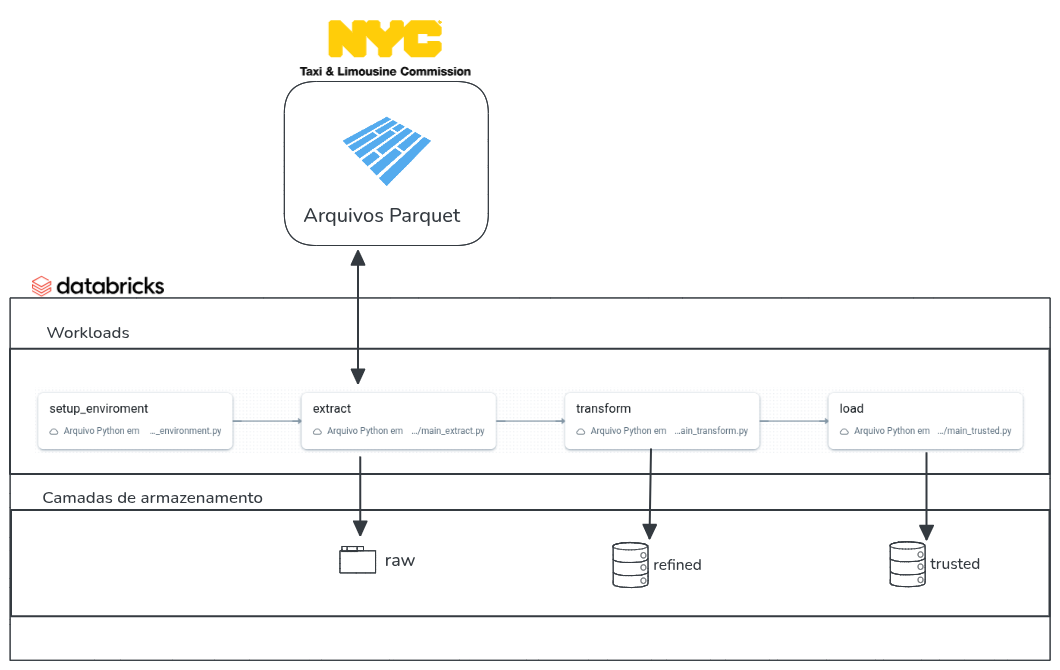
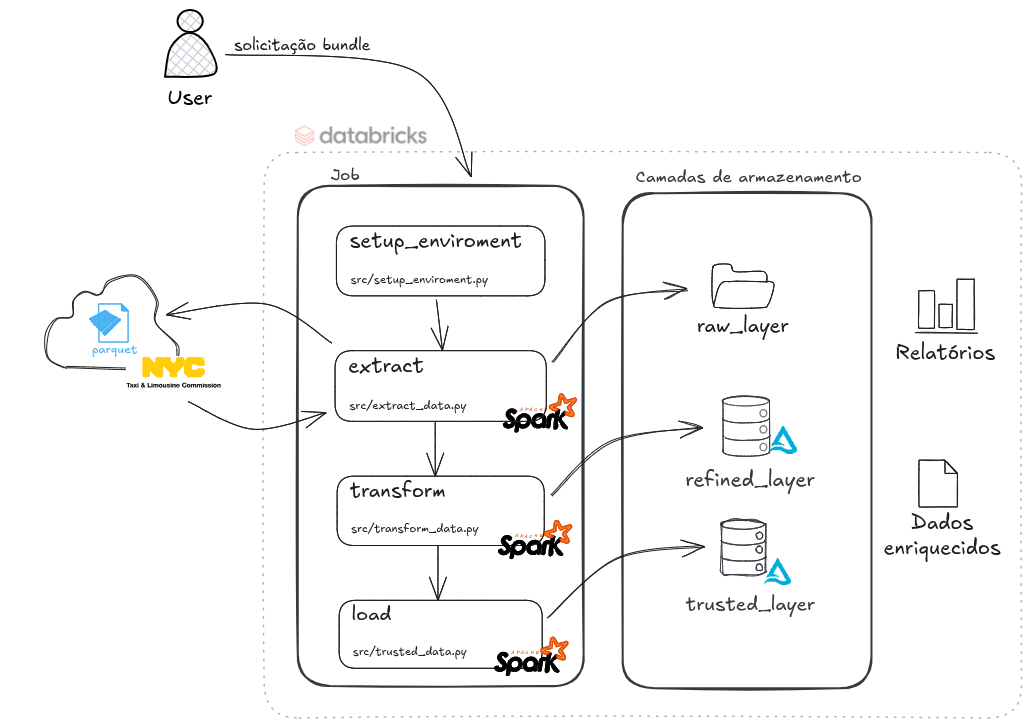
chore: ajuste final do readme

diff --git a/README.md b/README.md
@@ -1,10 +1,13 @@
 # Case Ifood - NYC Taxis
 
-Este projeto tem como finalidade, aplicar um pipeline estruturado sobre integração de dados, permitindo que posso ser realizado análise sobre estes dados.
+Este repositório tem como objetivo apresentar uma solução de engenharia de dados desenvolvida para tratar e analisar dados públicos de corridas de táxis da cidade de Nova York.
+A arquitetura do pipeline segue uma abordagem em camadas — Raw, Refined e Trusted — que organiza a evolução dos dados desde sua ingestão bruta até a geração de informações analíticas e de valor.
+
+O projeto foi construído utilizando Databricks e Delta Lake, garantindo escalabilidade, desempenho e rastreabilidade em todas as etapas do processamento.
 
 ## Arquitetura e Estrutura do Código
 
-Este projeto segue a seguinte arquitetura desenhada:
+Este projeto segue a seguinte arquitetura:
 
 ![Arquitetura Principal](./docs/arquitetura_principal.png)
 
@@ -12,19 +15,19 @@ Na sequência vamos inciar uma explicação detalhada sobre cada processo e sua 
 
 ### Detalhamento da Arquitetura:
 
-![Arquitetura Principal](./docs/arquitetura_principal_passo-a-passo.png)
+![Arquitetura Principal](./docs/arquitetura_principal_numeracao.png)
 
-**1 -** Cria os diretórios das camadas (raw, trusted, curated) no sistema de arquivos do Data Lake e os bancos de dados (schemas) no metastore do Spark/Databricks.
+**1 -** Cria os diretórios das camadas (raw, refined, trusted) no sistema de arquivos do Data Lake e os bancos de dados (schemas) no metastore do Spark/Databricks.
 
 **2, 3 e 4 -** Faz o download dos dados da camada RAW em formato Parquet, diretamente da fonte pública do NYC Taxi & Limousine Commission, com base no tipo e no período fornecidos. Faz o download e grava os dados Parquet por tipo e mês e escreve os dados baixados no caminho bruto do Data Lake.
 
-**5 -** Transforma os dados da camada RAW e grava em formato Delta na camada Trusted, com limpeza, cast e enriquecimento dos dados.
+**5 -** Transforma os dados da camada RAW e grava em formato Delta na camada Refined, com limpeza, cast e enriquecimento dos dados.
 
 **6 -** Aplica transformação e filtragem, persiste a tabela em Delta e orquestra todo o fluxo.
 
-**7 -** Gera os indicadores da camada Curated, como média de valor por mês e média de passageiros por hora, com escrita em Delta.
+**7 -** Gera os indicadores da camada Trusted, como média de valor por mês e média de passageiros por hora, com escrita em Delta.
 
-### Detalhamento da Estrutura de Pastas
+### Estrutura de Pastas
 ```
 case_ifood_nyctaxis/
 ├─ .databricks/                   # Pasta utilizada pela Databricks(bundles)
@@ -55,34 +58,112 @@ case_ifood_nyctaxis/
 
 Este projeto se utiliza do Databricks Bundles, que é descrito pela própria databricks, como uma ferramenta para facilitar a adoção das práticas recomendadas de software engenharia, incluindo controle de origem, revisão de código, testes e integração e entrega contínuas (CI/CD), para projetos de dados.
 
-### Configuração da Ferramenta para criação do pipeline
-Antes de executar o projeto temos algumas premissa a seguir. Algumas delas partem da própria Databricks para que o fluxo do bundles. São elas: 
+## Configuração da Ferramenta para criação do pipeline
+Antes de executar o projeto temos alguns pré-requisitos a seguir. Algumas delas partem da própria Databricks para que o fluxo do bundles. São elas: 
 - Criar uma conta no [Databricks Free Edition](https://www.databricks.com/learn/free-edition)
 - Instalar algum gerenciador de pacote python, o indicado é o [uv](https://docs.astral.sh/uv/getting-started/installation/)
 - Instalar o CLI da Databricks, que pode ser seguido pela Documentação: [Databricks CLI](https://docs.databricks.com/dev-tools/cli/databricks-cli.html)
 
 Tendo a conta criada e as ferramentas instaladas vamos seguir com o processo de incialização do projeto.
 
-### Inicialização do projeto
-Para iniciarmos o projeto vamos 
-2. Authenticate to your Databricks workspace, if you have not done so already:
-    ```
-    $ databricks configure
-    ```
+## Inicialização do projeto
+Para iniciarmos o projeto vamos seguir os seguintes passos:
 
-3. To deploy a development copy of this project, type:
-    ```
-    $ databricks bundle deploy --target dev
-    ```
-    (Note that "dev" is the default target, so the `--target` parameter
-    is optional here.)
+### 1. Clone do repositório:
+   ```
+   $ git clone https://github.com/matheus-conrado/case_ifood_nyctaxis.git
+   ```
 
-    This deploys everything that's defined for this project.
-    For example, the default template would deploy a job called
-    `[dev yourname] case_ifood_nyctaxis_job` to your workspace.
-    You can find that job by opening your workpace and clicking on **Workflows**.
+### 2. Alterar o arquivo databricks para o email cadastrado:
+Necessario alterar o arquivo localizado na raiz ```databricks.yml``` adicionando o email que utilizou no cadastro para o parametro ```user_name```:
+```databricks.yml
+    permissions:
+      - user_name: {seu_email}
+        level: CAN_MANAGE
+```
+### 3. Coletar as credenciais no portal da Databricks:
+No console da Databricks (área já logada), vamos coletar um token para utlização na ferramenta que irá realizar o processo de deploy do nosso job. Seguindo os seguintes passos:
+   1. No canto superior direito, clique no seu avatar (ícone do usuário).
+   2. Selecione "Settings" (ou "Configurações").
+   3. Vá até a aba de Usuário a esquerda selecione "Developer" (ou "Desenvolvedor").
+   4. Na primeira opção "Access Token" (ou "Tokens de Acesso") clique em "Manage" (ou "Gerenciar").
+   5. Na tela que irá abrir clique em "Generate new Token" (ou "Gerar novo Token")
+   6. No popup que irá abrir dê um nome (ex: cli-token-case) e defina uma data de expiração (ex: 90 dias).
+   7. Clique em "Generate" (ou "Gerar").
+   8. Copie o token exibido na tela e guarde em local seguro. Você não poderá visualizá-lo novamente.
 
-4. Similarly, to deploy a production copy, type:
+Com o token em mãos, agora vamos coletar o host, que nada mais é do que a URL inicial da platforma, algo que segue essa linha:
+   ```curl
+   https://<sua-instancia>.databricks.com/
+   ```
+### 4. Configurar o ```Databricks CLI```:
+Com o link da instância e as credenciais geradas, agora precisamos configurar a ferramenta Databricks CLI. Com um terminal aberto, digite o seguinte comando:
+   ```
+   $ databricks configure
+   ```
+Ao teclar enter algo nessa linha deve aparecer:
+   ```bash
+   $  databricks configure
+   ✗ Databricks host: https://
+   ```
+Basta inserir a URL coletada e ao precisar enter o terminal irá solicitar o token de acesso, bastar colar o token e precionar enter, e pronto Databricks CLI configurado.
+
+Caso queira realizar um teste para entender se até então toda configuração está correta, basta rodar o seguinte comando, lembrando que deve navegar até o diretorio do projeto que foi clonado:
+   ```
+   $ databricks bundle validate
+   ```   
+Ao como este deve parecer no seu terminal:
+```bash
+seu@pc:~/git/case_ifood_nyctaxis$ databricks bundle validate
+Name: case_ifood_nyctaxis
+Target: dev
+Workspace:
+  Host: https://dbc-78cfce01-acc4.cloud.databricks.com
+  User: seu_email@email.com
+  Path: /Workspace/Users/seu_email@email.com/.bundle/case_ifood_nyctaxis/dev
+
+Validation OK!
+```
+Se esta for a mensagem, podemos processeguir para o deploy.
+
+### 5. Realizar o deploy da aplicação:
+Com todos os passos acima realizado com sucesso, você ja pode realizar o deploy do job com seus codigos. Basta rodar o seguinte comando para ```dev```:
+   ```
+   $ databricks bundle deploy -t dev
+   ```
+>**Observação:** a flag padrão é "dev", portanto o uso do parâmetro --target é opcional neste caso.
+>
+>Esse comando implanta todos os elementos definidos para o projeto atual.
+Por exemplo, o modelo padrão criará uma tarefa chamada
+_[dev seu_email] case_ifood_nyctaxis_job_ no seu workspace.
+>
+>Para visualizar essa tarefa, acesse o console Databricks e clique em Jobs e Pipelines no menu lateral.
+
+Agora caso queria realizar o deploy para produção, basta processar o seguinte comando:
    ```
    $ databricks bundle deploy -t prod
    ```
+### 6. Processar o job:
+Deploy realizado para etapa de processamento basta, acessar o Console Databricks, no menu esquerdo selecionar "Job e Pipeline", e acionar no botão play, ou ao acessar o job clicar no botão a direita "Executar Agora".
+
+Caso queira processar o job usando a linha de comando basta rodar o seguinte comando no terminal:
+   ```
+   $ databricks bundle run
+   ```
+   Que ira processar em ambiente ```dev``` ou com a tag prod para o ambiente de produção:
+
+   ```
+   $ databricks bundle deploy -t prod
+   ```
+### Imagens do processamento realizado:
+
+
+## Escolhas importantes para o projeto
+
+* Com base na solicitação e seguindo alguns escopos levantados com base nos campos usados para a analise, optamos por carregar os dados de taxis amarelos e taxis verdes, focando na integração de dados que trariam valor para a analise.
+
+* Pensando em futuros reprocessamentos dos dados, os workloads foram criados usando variaveis como argumento para as task, o que facilitaria também chamadas externas as task atraves da API do Databricks.
+
+* Ainda pensando em reprocessamento, para facilitar a dinamica foi aplicado a configuração de ```.partitionOverwriteMode()``` ao save de dados em tabelas. Essa configuração possibilita que dentro da camada Refined os dados sejam sobrescritos no caso apenas nas partições que foram passadas para a task.
+
+* A escolha do uso de VOLUMES no workspace ou VOLUMES do Unity Catalog, foi pensando unicamente em facilitar a dinamica do processo de desenvolvimento deste case, mas poderia facilmente ser trocado por um contêinere básico de armazenamento de dados. Por este motivo foi pensado o arquivo de configuração onde podemos fornecer o path de forma dinamica do bucket caso necessário.
